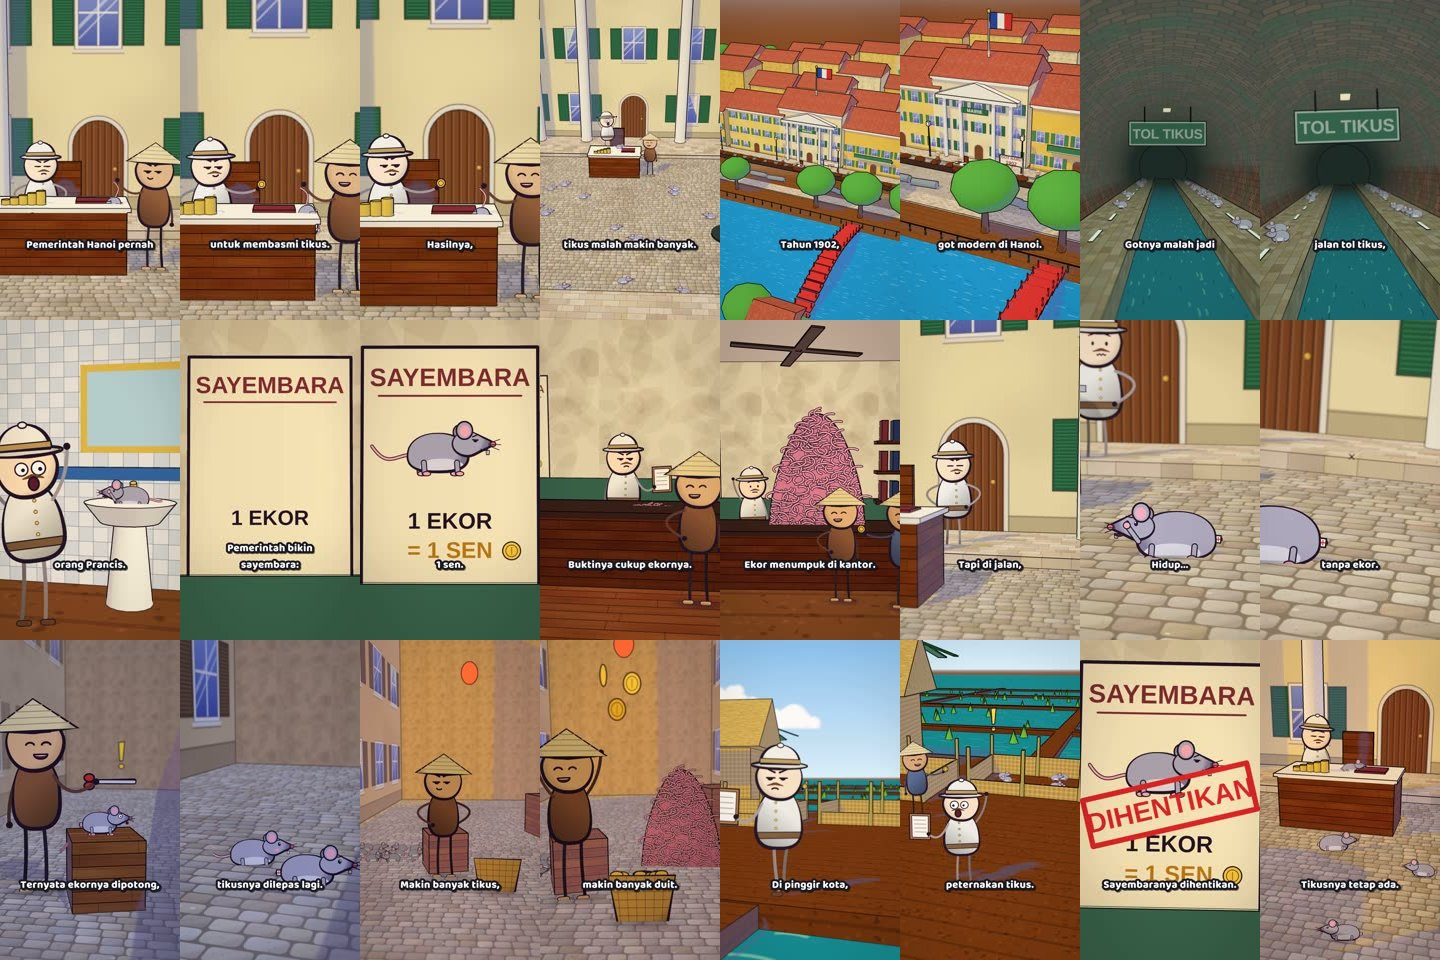
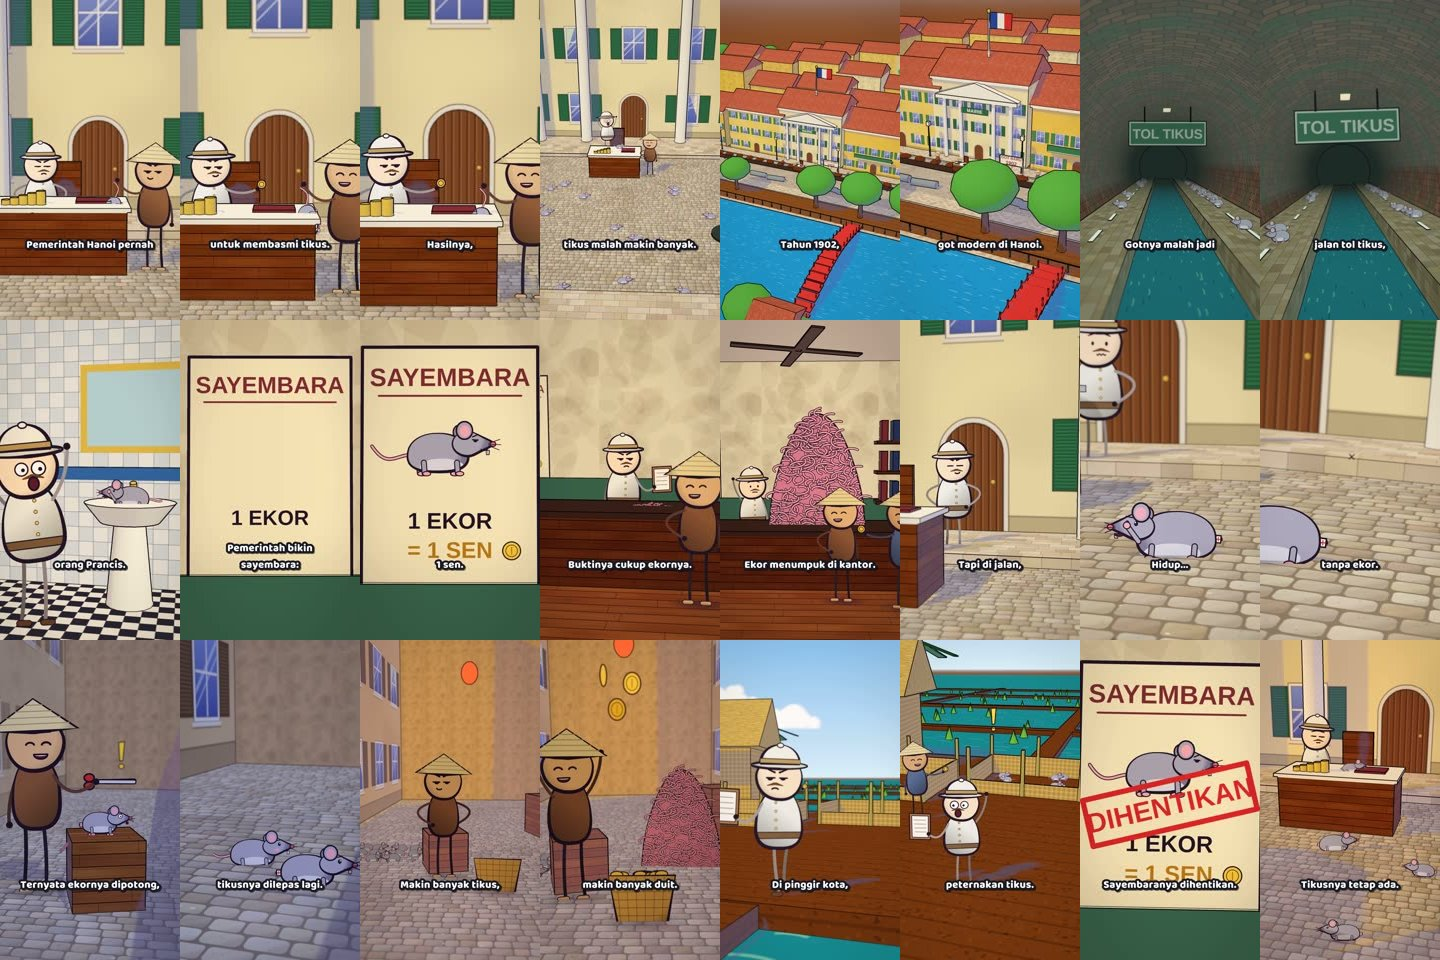
Tikus Hanoi v2: fix floor z-fighting flicker
Claude-Session: https://claude.ai/code/session_015wYate2eDy4Up4ZJ9cqZH9

diff --git a/content/tikus-hanoi/main.js b/content/tikus-hanoi/main.js
@@ -100,7 +100,9 @@ const flagPole = (x, y, z, h, size) => {
 // ---- street (origin), runs along x; colonial row on the north side (front faces at z = -6) ----
 const ROW = [[-46, 10, 8, "#e9b44c"], [-35, 10, 9, "#f0c95a"], [-23.5, 11, 7.5, "#e8bf63"], [-11, 12, 8.5, "#f2cf6e"], [0, 12, 10, "#f4e2ad"], [12, 11, 8, "#efc35a"], [24, 11, 9, "#e9b44c"], [35.5, 10, 7.5, "#f2cf6e"], [46, 9, 8.5, "#e8bf63"]];
 const street = () => {
-  planeXZ(5000, 5000, toon("earth", { map: P.soil(), color: 0xe9d9bc }), 0, 0, 0, 6);
+  // base earth sits 5 cm low and is pushed back in depth so road/alley/floors on top never z-fight
+  const earthM = toon("earth", { map: P.soil(), color: 0xe9d9bc }); earthM.polygonOffset = true; earthM.polygonOffsetFactor = 4; earthM.polygonOffsetUnits = 8;
+  planeXZ(5000, 5000, earthM, 0, -0.05, 0, 6);
   planeXZ(260, 8, toon("road", { map: UpPaint.cobbleHD() }), 0, 0.01, 0, 3);
   const walk = toon("walk", { map: UpPaint.stoneHD() });
   box(260, 0.16, 2, walk, 0, 0, -5, 0, 1.5); box(260, 0.16, 2, walk, 0, 0, 5, 0, 1.5);

diff --git a/content/tikus-hanoi/NOTES.md b/content/tikus-hanoi/NOTES.md
@@ -3,3 +3,4 @@
 - Fakta (Wikipedia, Atlas Obscura, Saigoneer/Michael Vann): got Doumer >19 km (Mar 1902) jadi jalan tikus ke rumah Prancis;
   penangkap dibayar per tikus; lalu hadiah publik 1 sen per ekor (bukti: ekor); tikus tanpa ekor terlihat; peternakan tikus
   di luar kota; hadiah dibatalkan. Wabah pes tetap pecah 1903 (tidak dipakai di naskah).
+- v2 (2026-11-08): fixed floor flicker (z-fighting). Base earth was at y 0, road at 0.01, office/bathroom floors at 0. Earth moved to −0.05 + polygonOffset. Lesson: never stack two floor planes < 5 cm apart; push the base ground back with polygonOffset.
